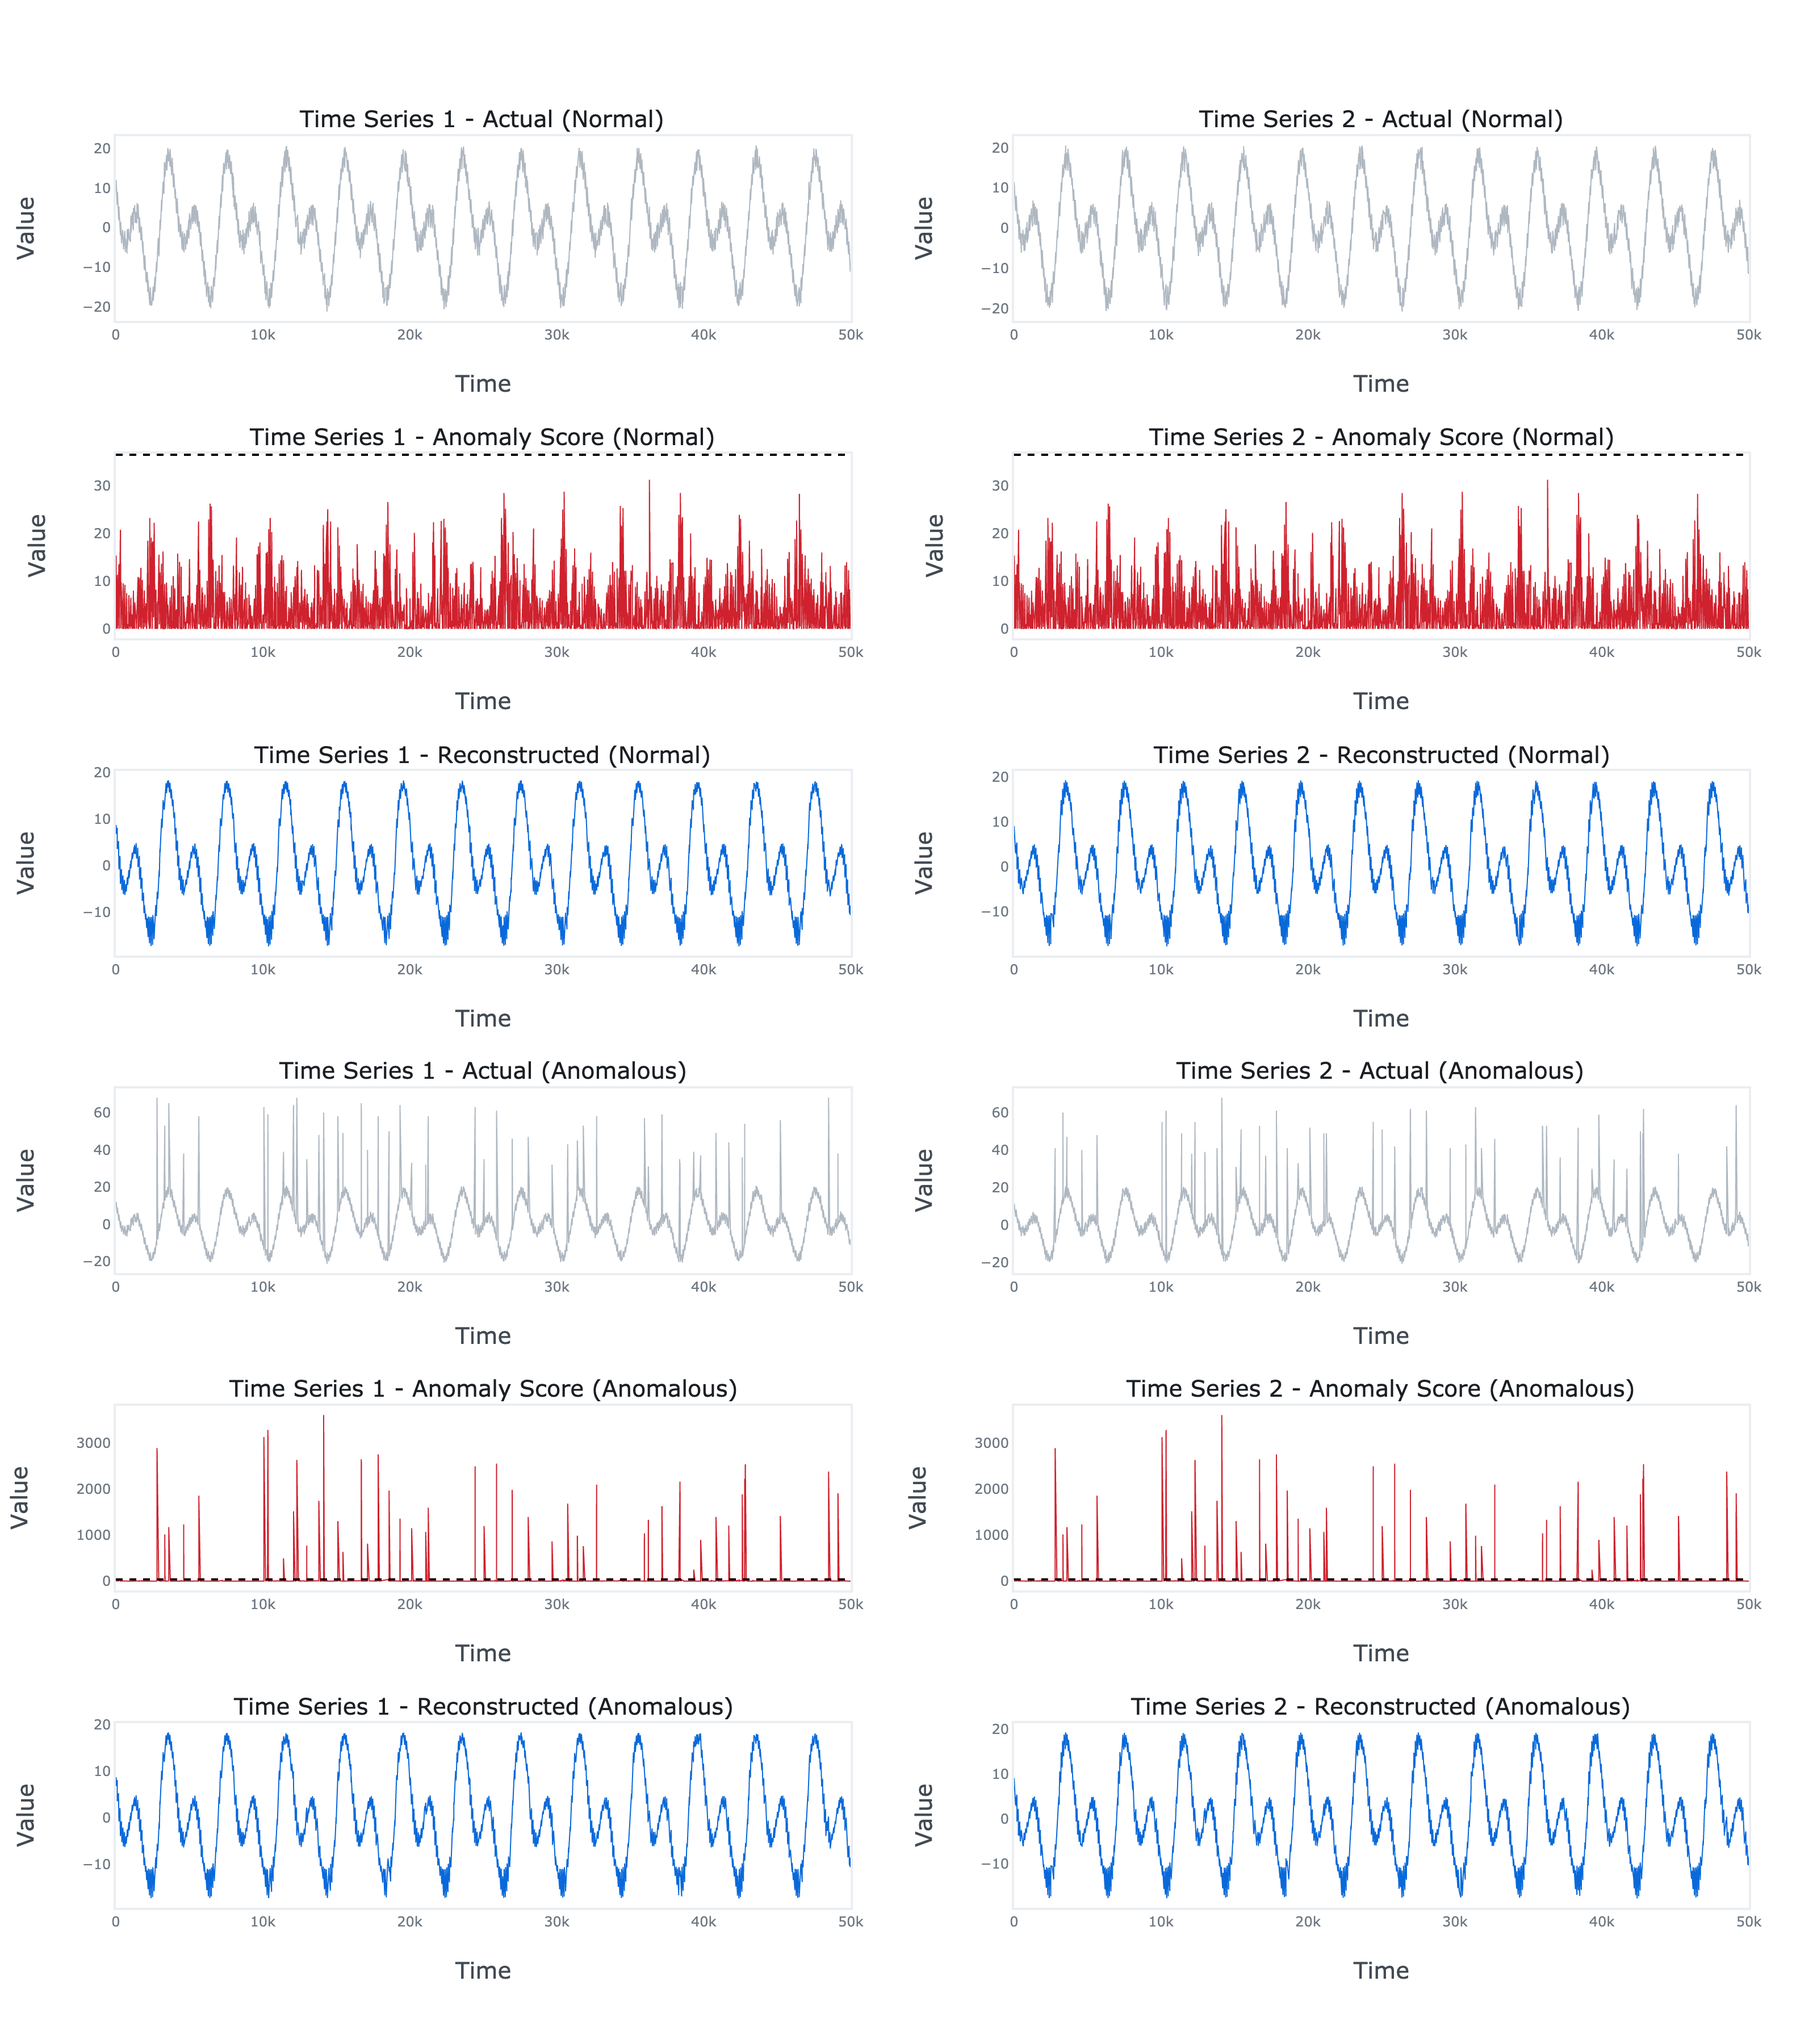
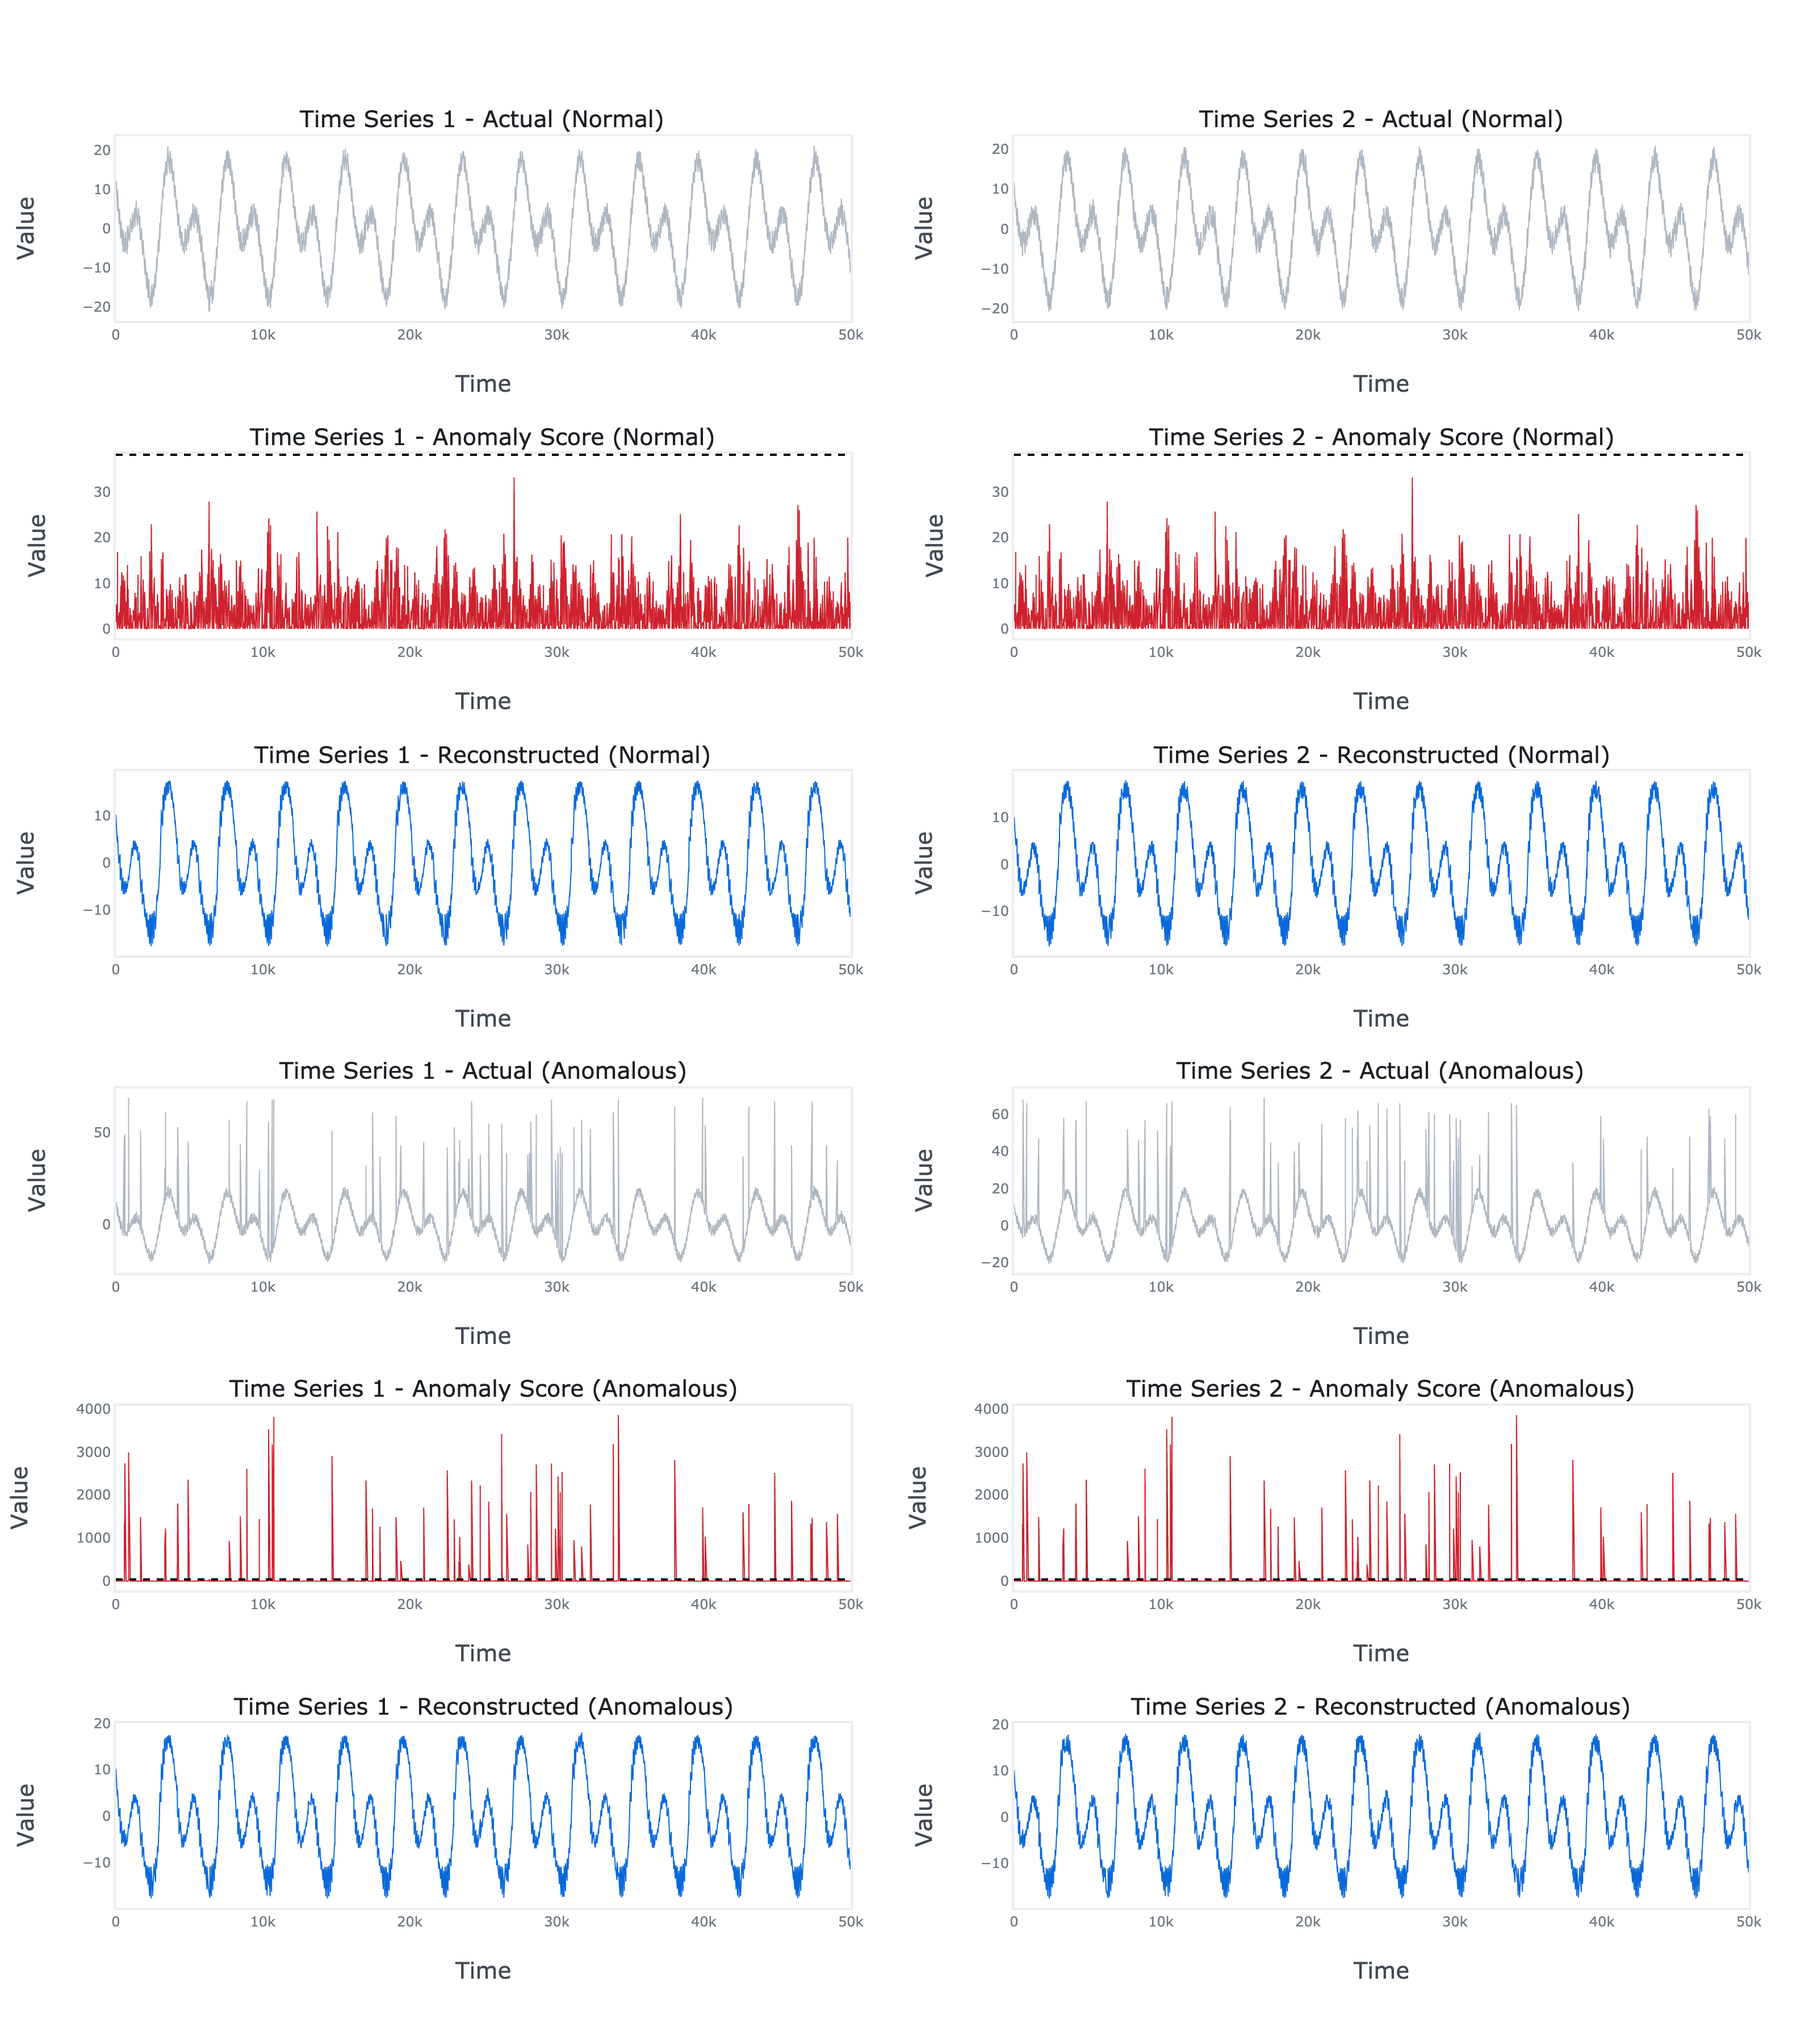
general update

diff --git a/encdec_ad_tensorflow/model.py b/encdec_ad_tensorflow/model.py
@@ -36,8 +36,9 @@ class EncDecAD():
        
         # Process the normal time series.
         x_sn = tf.cast(xn[:int(train_size * len(xn))], dtype=tf.float32)
-        x_vn = tf.cast(xn[int(train_size * len(xn)):], dtype=tf.float32)
-        y_vn = tf.zeros(len(x_vn), dtype=tf.float32)
+        x_vn1 = tf.cast(xn[int(train_size * len(xn)): - int(train_size * len(xn) / 2)], dtype=tf.float32)
+        x_vn2 = tf.cast(xn[- int(train_size * len(xn) / 2):], dtype=tf.float32)
+        y_vn2 = tf.zeros(len(x_vn2), dtype=tf.float32)
         
         # Process the anomalous time series.
         x_va = tf.cast(xa, dtype=tf.float32)
@@ -45,13 +46,15 @@ class EncDecAD():
         
         # Make sure that the length of the time series is a multiple of the sequence length.
         x_sn = x_sn[:self.L * (len(x_sn) // self.L)]
-        x_vn = x_vn[:self.L * (len(x_vn) // self.L)]
+        x_vn1 = x_vn1[:self.L * (len(x_vn1) // self.L)]
+        x_vn2 = x_vn2[:self.L * (len(x_vn2) // self.L)]
         x_va = x_va[:self.L * (len(x_va) // self.L)]
         y_va = y_va[:self.L * (len(y_va) // self.L)]
         
         # Split the time series into sequences.
         xs_sn = time_series_to_sequences(x_sn, L=self.L)
-        xs_vn = time_series_to_sequences(x_vn, L=self.L)
+        xs_vn1 = time_series_to_sequences(x_vn1, L=self.L)
+        xs_vn2 = time_series_to_sequences(x_vn2, L=self.L)
         xs_va = time_series_to_sequences(x_va, L=self.L)
 
         # Calculate the scaling factors.
@@ -60,7 +63,8 @@ class EncDecAD():
 
         # Scale the time series.
         xs_sn = (xs_sn - x_min) / (x_max - x_min)
-        xs_vn = (xs_vn - x_min) / (x_max - x_min)
+        xs_vn1 = (xs_vn1 - x_min) / (x_max - x_min)
+        xs_vn2 = (xs_vn2 - x_min) / (x_max - x_min)
         xs_va = (xs_va - x_min) / (x_max - x_min)
         
         # Build the training dataset.
@@ -68,7 +72,7 @@ class EncDecAD():
         train_dataset = train_dataset.cache().shuffle(len(xs_sn)).batch(batch_size).prefetch(tf.data.experimental.AUTOTUNE)
 
         # Build the validation dataset.
-        valid_dataset = tf.data.Dataset.from_tensor_slices((xs_vn, reverse_sequences(xs_vn)))
+        valid_dataset = tf.data.Dataset.from_tensor_slices((xs_vn1, reverse_sequences(xs_vn1)))
         valid_dataset = valid_dataset.batch(batch_size)
         
         # Build the model.
@@ -102,33 +106,37 @@ class EncDecAD():
         )
         
         # Generate the reconstructions.
-        rs_vn = model(xs_vn, training=False)
+        rs_vn1 = model(xs_vn1, training=False)
+        rs_vn2 = model(xs_vn2, training=False)
         rs_va = model(xs_va, training=False)
 
         # Transform the reconstructions back to the original scale.
-        rs_vn = x_min + (x_max - x_min) * rs_vn
+        rs_vn1 = x_min + (x_max - x_min) * rs_vn1
+        rs_vn2 = x_min + (x_max - x_min) * rs_vn2
         rs_va = x_min + (x_max - x_min) * rs_va
         
         # Transform the reconstructions back to time series.
-        r_vn = sequences_to_time_series(rs_vn)
+        r_vn1 = sequences_to_time_series(rs_vn1)
+        r_vn2 = sequences_to_time_series(rs_vn2)
         r_va = sequences_to_time_series(rs_va)
         
         # Calculate the reconstruction errors.
-        e_vn = tf.math.abs(x_vn - r_vn)
+        e_vn1 = tf.math.abs(x_vn1 - r_vn1)
+        e_vn2 = tf.math.abs(x_vn2 - r_vn2)
         e_va = tf.math.abs(x_va - r_va)
 
         # Calculate the mean vector and covariance matrix.
-        mu = tf.reduce_mean(e_vn, axis=0, keepdims=True)
-        sigma = tf.matmul(e_vn - mu, e_vn - mu, transpose_a=True) / (len(e_vn) - 1)
+        mu = tf.reduce_mean(e_vn1, axis=0, keepdims=True)
+        sigma = tf.matmul(e_vn1 - mu, e_vn1 - mu, transpose_a=True) / (len(e_vn1) - 1)
         
         # Calculate the anomaly scores.
         a_va = get_anomaly_scores(e_va, mu, sigma)
-        a_vn = get_anomaly_scores(e_vn, mu, sigma)
+        a_vn2 = get_anomaly_scores(e_vn2, mu, sigma)
         
         # Find the best anomaly threshold.
         tau = get_anomaly_threshold(
-            a=tf.concat([a_va, a_vn], axis=0),
-            y=tf.concat([y_va, y_vn], axis=0),
+            a=tf.concat([a_va, a_vn2], axis=0),
+            y=tf.concat([y_va, y_vn2], axis=0),
             beta=self.beta,
             num=self.num
         )
